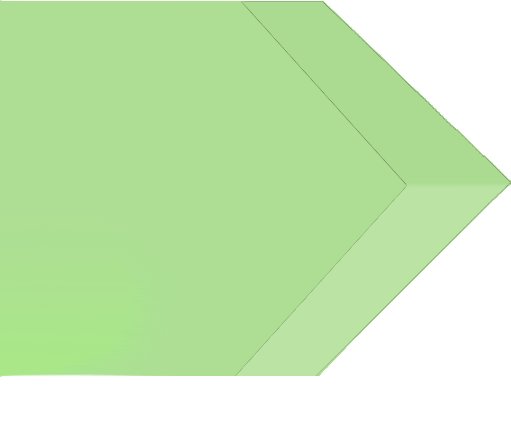
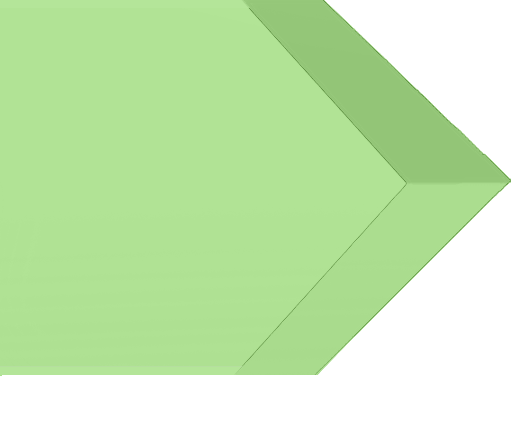
Done
light mode needs fixes. waiting for dark mode approval

diff --git a/darkMode/kimutatas.html b/darkMode/kimutatas.html
@@ -26,10 +26,7 @@
                 </div>
                 <div class="div-mid-hundred">
                     <text class="headerText">Kimutatás</text>
-                    <div class="languageSelectorContainer">
-                        <div class="en active" onclick="toggleLanguage('en')"></div>
-                        <div class="hu" onclick="toggleLanguage('hu')"></div>
-                    </div>
+
                 </div>
 
 
@@ -48,47 +45,47 @@
 
             <!-- Button -->
             <div class="kimutatasNavButtonContainer" onclick="showContent('content0', this)">
-                <div class="kimutatasButtonTextContainer bevezetoContainer">
+                <div class="kimutatasButtonTextContainer goodContainer">
                     <div class="questionManKerdoiv"></div>
                     <div class="buttonText greenButtonStroke">Bevezetes</div>
                 </div>
-                <div class="kimutatasButtonArrowContainer bevezetoArrowImage"></div>
+                <div class="kimutatasButtonArrowContainer goodArrowImage"></div>
             </div>
 
             <!-- Button -->
             <div class="kimutatasNavButtonContainer" onclick="showContent('content1', this)">
-                <div class="kimutatasButtonTextContainer neutralContainer">
+                <div class="kimutatasButtonTextContainer goodContainer">
                     <div class="neutralMan"></div>
                     <div class="buttonText greenButtonStroke">Semleges</div>
                 </div>
-                <div class="kimutatasButtonArrowContainer neutralArrowImage"></div>
+                <div class="kimutatasButtonArrowContainer goodArrowImage"></div>
             </div>
 
             <!-- Button -->
             <div class="kimutatasNavButtonContainer" onclick="showContent('content2', this)">
-                <div class="kimutatasButtonTextContainer neutralContainer">
+                <div class="kimutatasButtonTextContainer goodContainer">
                     <div class="neutralMan"></div>
                     <div class="buttonText greenButtonStroke">Semleges 2</div>
                 </div>
-                <div class="kimutatasButtonArrowContainer neutralArrowImage"></div>
+                <div class="kimutatasButtonArrowContainer goodArrowImage"></div>
             </div>
 
             <!-- Button -->
             <div class="kimutatasNavButtonContainer" onclick="showContent('content3', this)">
-                <div class="kimutatasButtonTextContainer neutralContainer">
+                <div class="kimutatasButtonTextContainer goodContainer">
                     <div class="neutralMan"></div>
                     <div class="buttonText greenButtonStroke">Semleges 3</div>
                 </div>
-                <div class="kimutatasButtonArrowContainer neutralArrowImage"></div>
+                <div class="kimutatasButtonArrowContainer goodArrowImage"></div>
             </div>
 
             <!-- Button -->
             <div class="kimutatasNavButtonContainer" onclick="showContent('content4', this)">
-                <div class="kimutatasButtonTextContainer neutralContainer">
+                <div class="kimutatasButtonTextContainer goodContainer">
                     <div class="transparentMan"></div>
                     <div class="buttonText greenButtonStroke">Reziliencia</div>
                 </div>
-                <div class="kimutatasButtonArrowContainer neutralArrowImage"></div>
+                <div class="kimutatasButtonArrowContainer goodArrowImage"></div>
             </div>
 
             <!-- Button -->
@@ -111,11 +108,11 @@
 
             <!-- Button -->
             <div class="kimutatasNavButtonContainer" onclick="showContent('content6', this)">
-                <div class="kimutatasButtonTextContainer badContainer">
+                <div class="kimutatasButtonTextContainer goodContainer">
                     <div class="depressedManKerdoiv"></div>
-                    <div class="buttonText redButtonStroke">Rovid Szoveg</div>
+                    <div class="buttonText greenButtonStroke">Rovid Szoveg</div>
                 </div>
-                <div class="kimutatasButtonArrowContainer badArrowImage"></div>
+                <div class="kimutatasButtonArrowContainer goodArrowImage"></div>
             </div>
 
             <!-- Button -->
@@ -147,29 +144,29 @@
 
             <!-- Button -->
             <div class="kimutatasNavButtonContainer" onclick="showContent('content10', this)">
-                <div class="kimutatasButtonTextContainer badContainer">
+                <div class="kimutatasButtonTextContainer goodContainer">
                     <div class="depressedManKerdoiv"></div>
-                    <div class="buttonText redButtonStroke">Jaj ne ez igy nagyon hosszu</div>
+                    <div class="buttonText greenButtonStroke">Jaj ne ez igy nagyon hosszu</div>
                 </div>
-                <div class="kimutatasButtonArrowContainer badArrowImage"></div>
+                <div class="kimutatasButtonArrowContainer goodArrowImage"></div>
             </div>
 
             <!-- Button -->
             <div class="kimutatasNavButtonContainer" onclick="showContent('content11', this)">
-                <div class="kimutatasButtonTextContainer badContainer">
+                <div class="kimutatasButtonTextContainer goodContainer">
                     <div class="depressedManKerdoiv"></div>
-                    <div class="buttonText redButtonStroke">Rovid Szoveg 2</div>
+                    <div class="buttonText greenButtonStroke">Rovid Szoveg 2</div>
                 </div>
-                <div class="kimutatasButtonArrowContainer badArrowImage"></div>
+                <div class="kimutatasButtonArrowContainer goodArrowImage"></div>
             </div>
 
             <!-- Button -->
             <div class="kimutatasNavButtonContainer" onclick="showContent('content12', this)">
-                <div class="kimutatasButtonTextContainer badContainer">
+                <div class="kimutatasButtonTextContainer goodContainer">
                     <div class="depressedManKerdoiv"></div>
-                    <div class="buttonText redButtonStroke">Rovid Szoveg 3</div>
+                    <div class="buttonText greenButtonStroke">Rovid Szoveg 3</div>
                 </div>
-                <div class="kimutatasButtonArrowContainer badArrowImage"></div>
+                <div class="kimutatasButtonArrowContainer goodArrowImage"></div>
             </div>
 
         </div>

diff --git a/styles/index.css b/styles/index.css
@@ -59,8 +59,8 @@ body{
     width: 100%;
     height: 70px;
     margin-top: 10px;
-    /* background-image: url('../imgaes/rva-hosszuvege.png'); */
-    background-image: url('../imgaes/rva-hosszu-nyilkiiro_javitott_nincs_bevillanas.png');
+    background-image: url('../imgaes/rva-hosszuvege.png');
+    /* background-image: url('../imgaes/rva-hosszu-nyilkiiro_javitott_nincs_bevillanas.png'); */
     background-repeat: no-repeat;
     background-size: auto 100%;
         /* Maintain height, adjust width */
@@ -75,15 +75,15 @@ body{
 }
 .div-back-seventyfive{
     height: 100%;
-    width: 100%;
+    width: 80%;
     z-index: 120;
 }
 .div-back-hundred {
     height: 100%;
-    width: 0%;
+    width: 20%;
     display: flex;
     flex-direction: row;
-    justify-content: flex-end;
+    justify-content: center;
     align-items: center;
     padding-right: 40px;
     z-index: 120;
@@ -91,7 +91,7 @@ body{
 .div-mid{
     width: 100%;
     height: 70px;
-    /* background-image: url('../imgaes/rva-hosszu-nyilkiiro_javitott_nincs_bevillanas.png'); */
+    background-image: url('../imgaes/rva-hosszu-nyilkiiro_javitott_nincs_bevillanas.png');
     background-repeat: no-repeat;
     background-size: auto 100%;
     background-position: right;
@@ -102,7 +102,7 @@ body{
 }
 .div-mid-fifty{
     height: 100%;
-    width: 25%;
+    width: 50%;
     z-index: 120;
 
 }
@@ -170,7 +170,7 @@ body{
         -1px 1px 0 #293E07,
         1px 1px 0 #293E07; /* Simulates an outside stroke */
     z-index: 120;
-    width: 70%;
+    width: 100%;
     text-align: center;
     
 }
@@ -383,7 +383,7 @@ body{
         width: 25%;
     }
     .div-mid-fifty {
-        width: 30%;
+        width: 40%;
     }
     .div-mid-hundred{
         width: 70%;
@@ -405,7 +405,7 @@ body{
         height: 40px;
     }
     .div-mid-fifty {
-        width: 35%;
+        width: 45%;
     }
     .div-mid-hundred{
         width: 65%;
@@ -590,7 +590,7 @@ body{
         height: 45px;
     }
     .div-mid-fifty{
-        width: 50%;
+        width: 70%;
     }
     .div-front {
         height: 45px;

diff --git a/darkMode/bemutato.html b/darkMode/bemutato.html
@@ -26,10 +26,7 @@
                 </div>
                 <div class="div-mid-hundred">
                     <text class="headerText">Bemutató</text>
-                    <div class="languageSelectorContainer">
-                        <div class="en active" onclick="toggleLanguage('en')"></div>
-                        <div class="hu" onclick="toggleLanguage('hu')"></div>
-                    </div>
+
                 </div>
 
 
@@ -62,6 +59,16 @@
                     Ha ezt az ikont látod az kifejezetten jó hir! Az adott dimenzión belül nagyon jó értéket értél el,
                     így nincs miért
                     aggódnod.
+                </div>
+            </div>
+        </div>
+
+        <div class="greenLineBox blueLineBoxColoring">
+            <div class="greenLineBoxInner">
+                <div class="imageOfBlueMan"></div>
+                <div class="mediumTextBemutato blueTextColor">
+                    Ha ezt az ikont látod, az azt jelenti, hogy az adott dimenzión belül nem kivaloak az eredmenyeid, de nem is tragikusak.
+                    Pont 3.6 ha hiszed ha nem...
                 </div>
             </div>
         </div>

diff --git a/darkMode/index.html b/darkMode/index.html
@@ -23,10 +23,7 @@
                     </div>
                     <div class="div-mid-hundred">
                         <text class="headerText">Kérdőív</text>
-                        <div class="languageSelectorContainer">
-                            <div class="en active" onclick="toggleLanguage('en')"></div>
-                            <div class="hu" onclick="toggleLanguage('hu')"></div>
-                        </div>
+
                     </div>
 
 
@@ -55,6 +52,11 @@
                     vezető út kiválasztásához, megépítéséhez igényelnek. Az egyéni és szervezeti minőség és teljesítmény növelésében tudunk
                     segíteni, közös gondolkodással, elhivatott szakemberekkel.
                 </text>
+
+                <div class="languageSelectorContainer">
+                    <div class="en active" onclick="toggleLanguage('en')"></div>
+                    <div class="hu" onclick="toggleLanguage('hu')"></div>
+                </div>
 
                 <!-- Button -->
                 <div class="button">

diff --git a/styles/bemutato.css b/styles/bemutato.css
@@ -182,6 +182,9 @@
 .redLineBoxColoring{
     background-color: #dc827e;
 }
+.blueLineBoxColoring {
+    background-color: #CBF9FF;
+}
 .greenLineBoxInner{
     height: 100%;
     width: 80%;
@@ -206,8 +209,20 @@
     background-position: center;
     background-repeat: no-repeat;
 }
+.imageOfBlueMan{
+    height: 160px;
+    aspect-ratio: 0.62;
+    background-image: url('../imgaes/semleges-figura-_bland.png');
+    background-size: contain;
+    background-position: center;
+    background-repeat: no-repeat;
+    margin-right: 20px;
+}
 .redTextColor{
     color: #681300;
+}
+.blueTextColor {
+    color: #2c4e7d;
 }
 
 .chartImageRedSmall{

diff --git a/darkMode/kerdoiv.html b/darkMode/kerdoiv.html
@@ -24,10 +24,7 @@
                 </div>
                 <div class="div-mid-hundred">
                     <text class="headerText">Kérdések</text>
-                    <div class="languageSelectorContainer">
-                        <div class="en active" onclick="toggleLanguage('en')"></div>
-                        <div class="hu" onclick="toggleLanguage('hu')"></div>
-                    </div>
+
                 </div>
             </div>
         </div>

diff --git a/darkMode/kiertekeles.html b/darkMode/kiertekeles.html
@@ -27,10 +27,7 @@
                 </div>
                 <div class="div-mid-hundred">
                     <text class="headerText">Kiértékelés</text>
-                    <div class="languageSelectorContainer">
-                        <div class="en active" onclick="toggleLanguage('en')"></div>
-                        <div class="hu" onclick="toggleLanguage('hu')"></div>
-                    </div>
+
                 </div>
 
 

diff --git a/darkMode/szemelyesAdatok.html b/darkMode/szemelyesAdatok.html
@@ -26,10 +26,7 @@
                 </div>
                 <div class="div-mid-hundred">
                     <text class="headerText">Kérdőív</text>
-                    <div class="languageSelectorContainer">
-                        <div class="en active" onclick="toggleLanguage('en')"></div>
-                        <div class="hu" onclick="toggleLanguage('hu')"></div>
-                    </div>
+
                 </div>
 
 

diff --git a/styles/kimutatas.css b/styles/kimutatas.css
@@ -357,7 +357,7 @@
     margin-top: 25px;
 }
 .imageOfNeutralMan{
-    width: 150px;
+    width: 100px;
     aspect-ratio: 0.627;
     background-image: url('../imgaes/semleges-figura-_bland.png');
     background-repeat: no-repeat;
@@ -365,6 +365,7 @@
     background-position: center;
     margin-bottom: 25px;
     margin-top: 25px;  
+    margin-right: 20px;
 }
 .vr{
     width: 5px;
